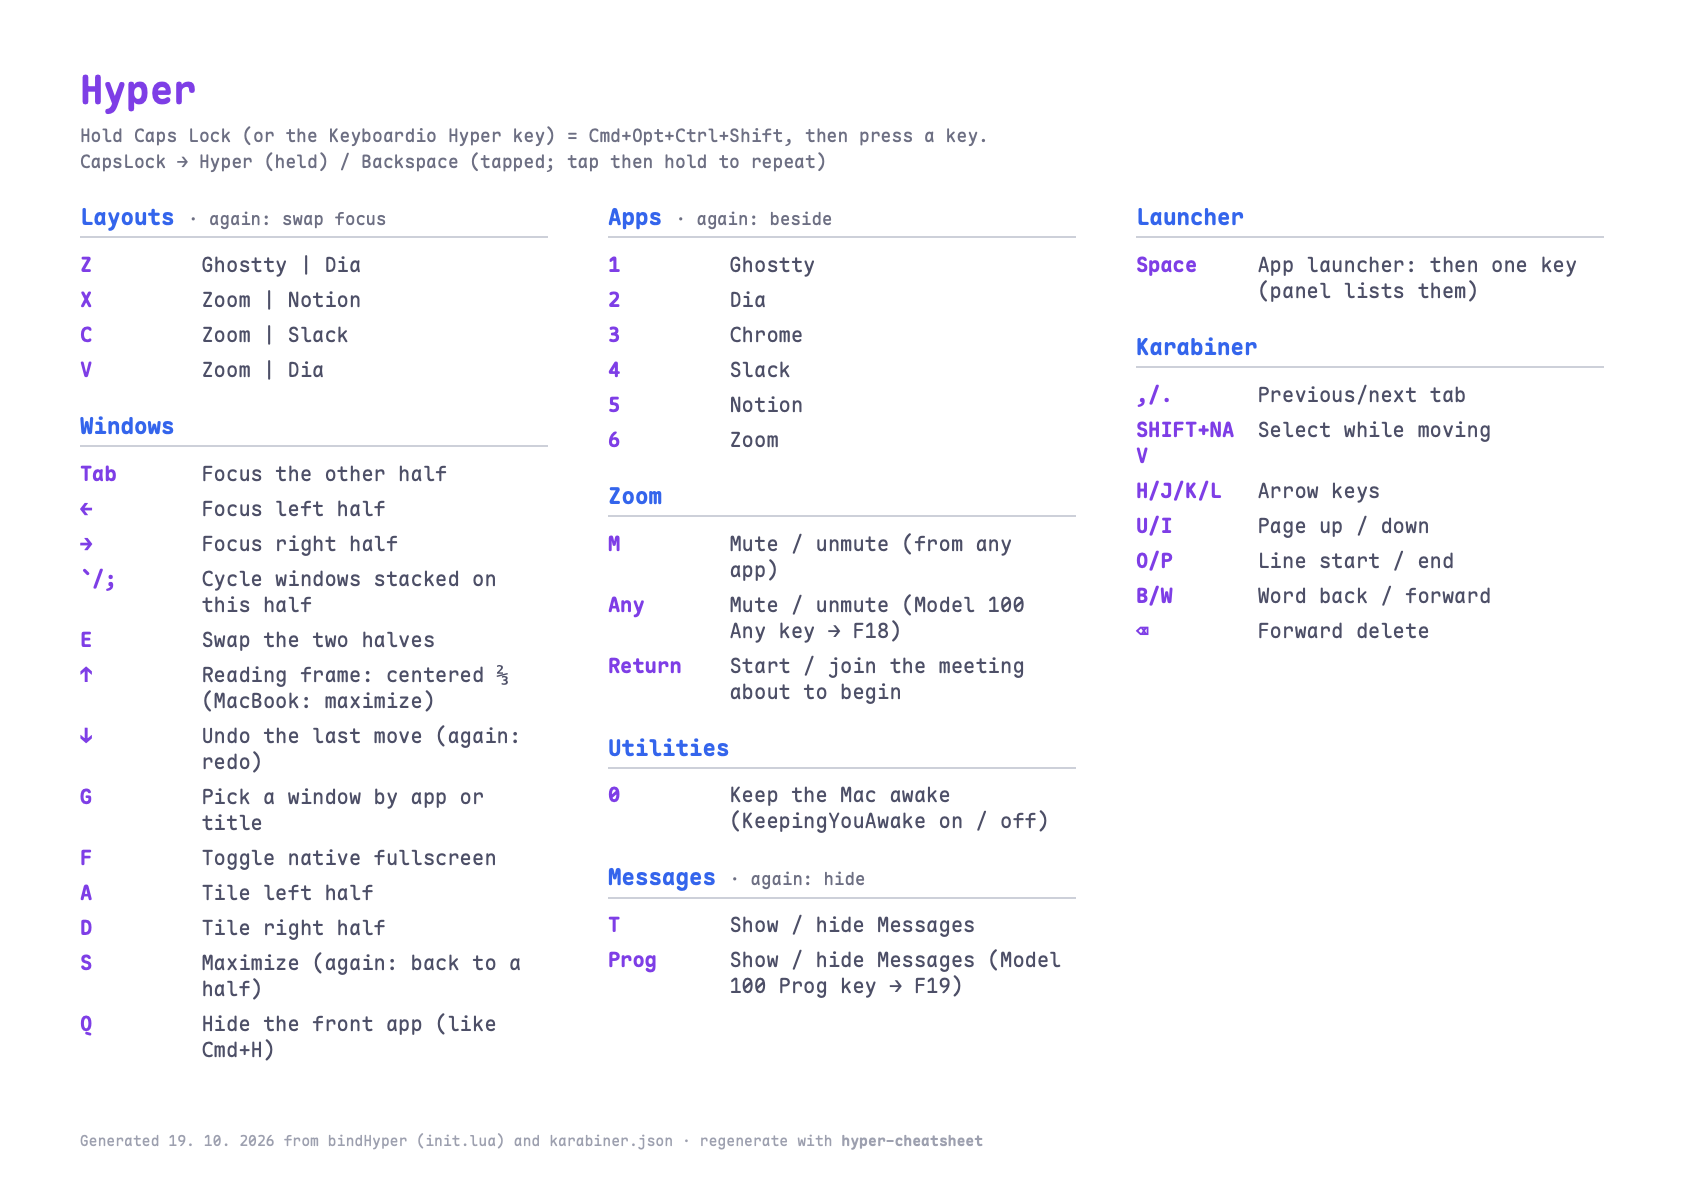
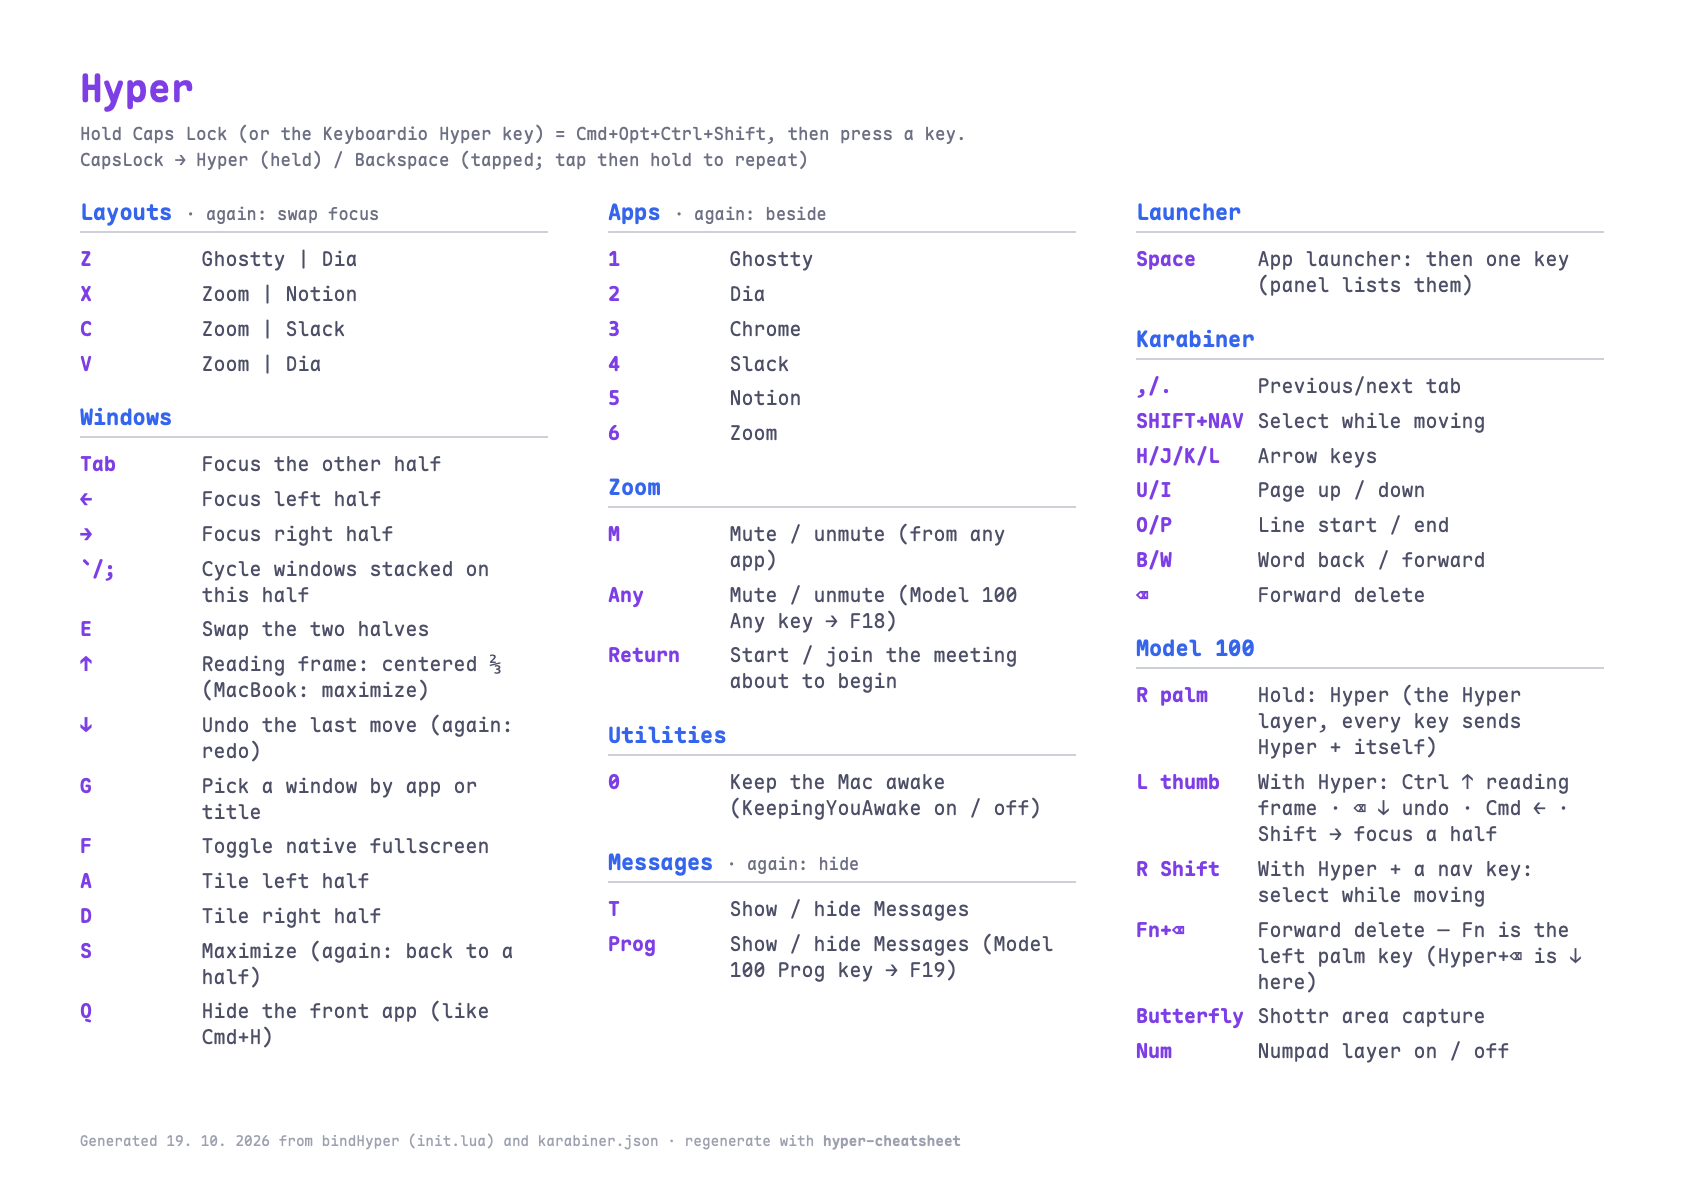
Cheatsheet: the printed Hyper page shows the Model 100's own keys
The printout listed every Hyper binding but nothing about where the
Model 100 puts them: the palm keys (Hyper on the right, Fn on the left),
the left-thumb arrows, right Shift for selecting, Fn+⌫ for forward
delete, the butterfly and Num keys. A new GUIDE section, "Model 100 at
a glance", holds them as a table, and cheatsheet-pdf.swift adds it to
the Hyper page (and fails if the section goes missing), so the GUIDE
stays the one source. Any and Prog already show in their sections.

The GUIDE called the Hyper key the right thumb-cluster Fn; decoding the
keymap shows it's the right palm key (ShiftToLayer 3), with Fn (layer
2) on the left one.

Claude-Session: https://claude.ai/code/session_01GPLQFH3ZSRtaBoie4R85Q1

diff --git a/config/hammerspoon/cheatsheet-pdf.swift b/config/hammerspoon/cheatsheet-pdf.swift
@@ -229,7 +229,15 @@ var documents: [String] = []
 
 let hyperBody = hyper.sections.map { s in
     sectionHTML(s.name, note: s.note, rows: s.entries.map { Row(key: esc($0.key), desc: esc($0.desc)) })
-}.joined()
+}.joined() + {
+    // The keyboard-specific keys (thumb arrows, palm keys), from the GUIDE,
+    // next to the bindings they reach
+    let name = "Model 100 at a glance"
+    guard let lines = guideSection(name), !rows(of: lines).isEmpty else {
+        fail("GUIDE.md has no table under \"\(name)\" — the Hyper page shows it")
+    }
+    return sectionHTML("Model 100", note: nil, rows: rows(of: lines))
+}()
 documents.append(pageHTML(
     title: "Hyper",
     subtitle: "Hold Caps Lock (or the Keyboardio Hyper key) = Cmd+Opt+Ctrl+Shift, then press a key."

diff --git a/GUIDE.md b/GUIDE.md
@@ -1014,7 +1014,7 @@ here, layer 0:
 
 | Key | Sends | Does |
 |---|---|---|
-| Right thumb-cluster Fn | Holds the **Hyper layer**, where every key sends Hyper + itself | Hyper, held — and the keys light up by what they do |
+| Right palm key (Fn) | Holds the **Hyper layer**, where every key sends Hyper + itself | Hyper, held — and the keys light up by what they do |
 | Butterfly | `Cmd+Shift+4` | Shottr area capture (its hotkey; macOS's own `Cmd+Shift+4` is off) |
 | Any | `F18` (custom code 109) | Zoom mute (Hammerspoon binds F18) |
 | Prog | `F19` (custom code 110) | Messages show / hide (Hammerspoon binds F19) |
@@ -1086,6 +1086,23 @@ uses (read-only — it skips reset/erase/trigger) and writes Chrysalis's own
 backup format, so restoring is Chrysalis's restore-from-backup option. Chrysalis
 only backs up by itself before a firmware update, which is why its last one
 predated the Hyper and butterfly keys.
+
+### Model 100 at a glance
+
+What's different on the Model 100, at a glance (the printed cheatsheet's
+Hyper page carries this table):
+
+| Keys | Does |
+|---|---|
+| R palm | Hold: Hyper (the Hyper layer, every key sends Hyper + itself) |
+| L thumb | With Hyper: Ctrl ↑ reading frame · ⌫ ↓ undo · Cmd ← · Shift → focus a half |
+| R Shift | With Hyper + a nav key: select while moving |
+| Fn+⌫ | Forward delete — Fn is the left palm key (Hyper+⌫ is ↓ here) |
+| Butterfly | Shottr area capture |
+| Num | Numpad layer on / off |
+
+Any (Zoom mute) and Prog (Messages) are on the Hyper page already, with
+their sections.
 
 ### Cheatsheet
 
